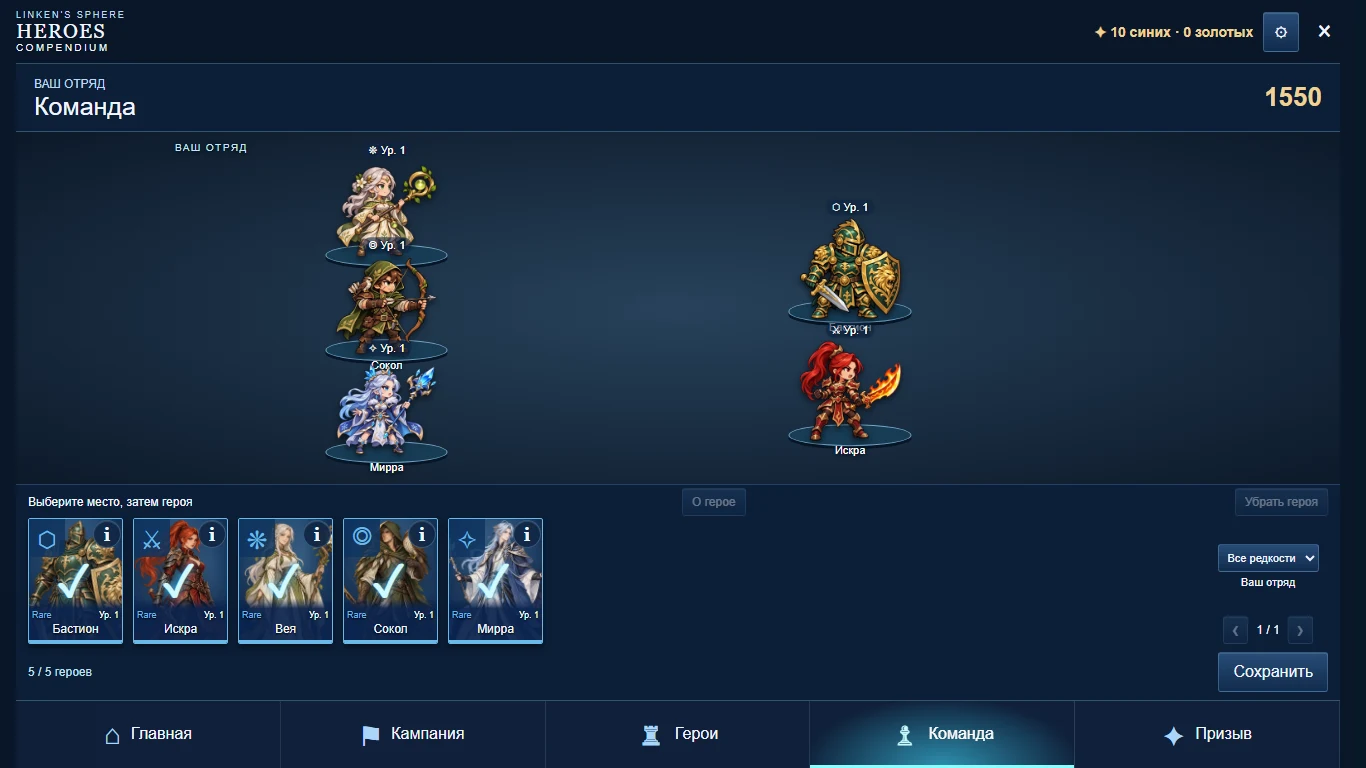
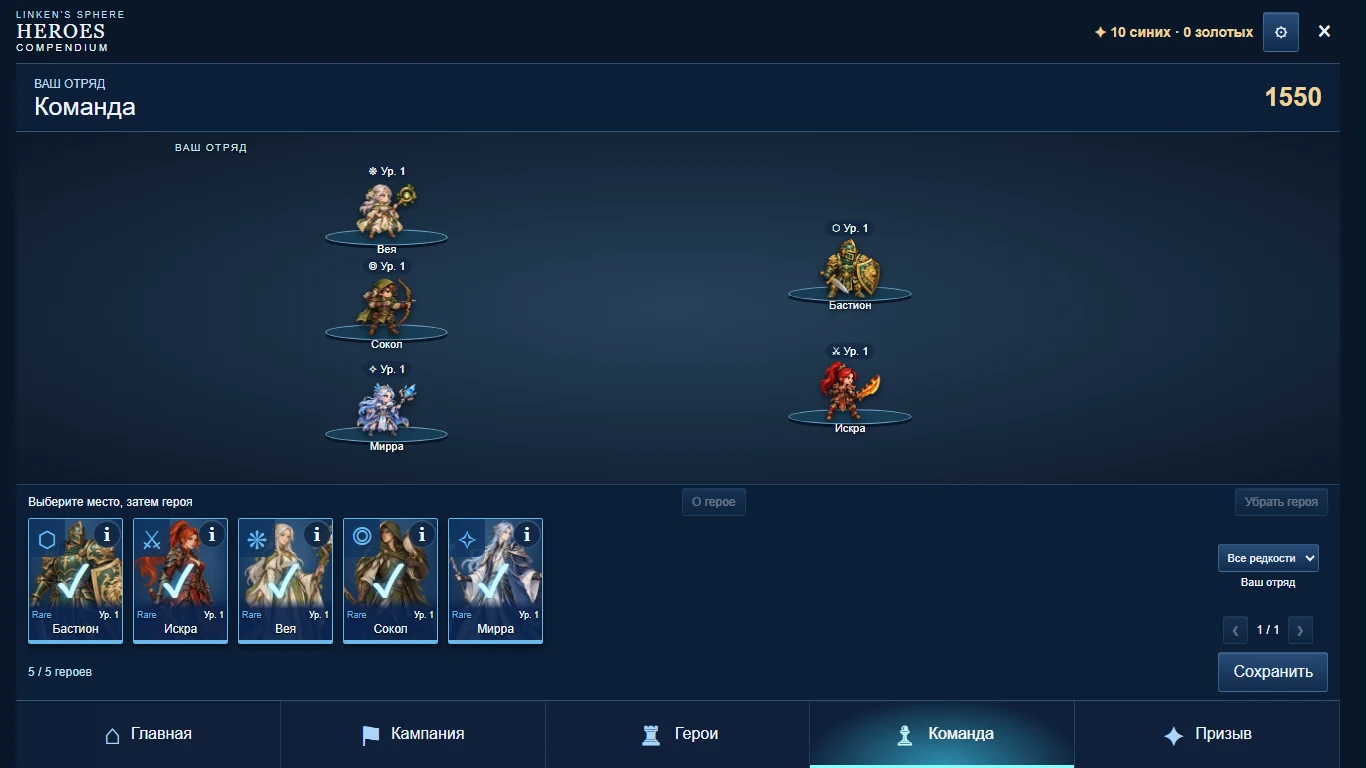
Разделить подписи героев между позициями отряда

Changed region(s): [[0.2152, 0.1875, 0.3382, 0.625], [0.5842, 0.25, 0.6764, 0.5938]]

diff --git a/site/app/styles/autobattler.css b/site/app/styles/autobattler.css
@@ -81,7 +81,7 @@ html:has(.ab-game),body:has(.ab-game){height:100dvh;overflow:clip}
 .ab-tactics-field:after{content:'';position:absolute;inset:42% 4% 5%;border:1px solid #86c0f122;transform:skewX(-17deg);background:repeating-linear-gradient(90deg,transparent 0 19%,#bedbff12 20%);z-index:-1}
 .ab-field-side{position:absolute;top:10px;font-size:10px;letter-spacing:.15em;color:#c0e8ff;text-shadow:0 1px 4px #000}
 .ab-side-player{left:12%}.ab-side-enemy{right:12%}
-.ab-game .ab-field-unit{position:absolute;left:var(--unit-x);top:var(--unit-y);transform:translate(-50%,-50%);display:flex;flex-direction:column;align-items:center;width:18%;max-width:175px;height:38%;max-height:160px;min-height:0;border:0;border-radius:0;background:none;box-shadow:none;padding:0;gap:0}
+.ab-game .ab-field-unit{position:absolute;left:var(--unit-x);top:var(--unit-y);transform:translate(-50%,-50%);display:flex;flex-direction:column;align-items:center;width:18%;max-width:175px;height:26%;max-height:120px;min-height:0;border:0;border-radius:0;background:none;box-shadow:none;padding:0;gap:0}
 .ab-field-unit:after{content:'';position:absolute;left:15%;right:15%;bottom:10px;height:15%;background:#183c55;border:1px solid #72a5c6;box-shadow:0 3px 0 #071627;border-radius:50%;z-index:-1}
 .ab-field-unit .ab-portrait{flex:1;min-height:0;width:100%;filter:drop-shadow(0 3px 3px #0009)}
 .ab-enemy-unit .ab-portrait{scale:-1 1}
@@ -259,7 +259,7 @@ html:has(.ab-game),body:has(.ab-game){height:100dvh;overflow:clip}
  .ab-grid{gap:6px}.ab-card-caption{padding:18px 3px 6px}.ab-card-caption strong{font-size:12px}.ab-card-caption>span{font-size:8px;flex-wrap:wrap;gap:2px}
  .ab-card .ab-card-role{width:28px;height:29px;font-size:21px}.ab-pager{padding:5px 0;gap:15px}.ab-pager button{min-height:28px}
  .ab-team-heading{min-height:54px;padding:5px 8px;gap:8px}.ab-team-heading h2{font-size:17px}.ab-team-heading small{font-size:9px}.ab-power{font-size:17px;gap:7px}.ab-power span{font-size:12px}
- .ab-tactics-field{min-height:175px}.ab-game .ab-field-unit{width:23%;height:35%;max-height:125px}
+ .ab-tactics-field{min-height:175px}.ab-game .ab-field-unit{width:23%;height:26%;max-height:100px}
  .ab-field-unit small{font-size:9px}.ab-unit-level{font-size:9px;padding:0 4px}.ab-field-side{font-size:8px;top:4px}
  .ab-team-tools{font-size:10px;padding:2px 6px;min-height:31px}.ab-team-tools button{font-size:10px;min-height:26px;padding:2px 5px}
  .ab-roster{height:126px}.ab-roster .ab-gallery-main{padding:0 6px;grid-template-columns:minmax(0,1fr) 100px;gap:4px;grid-template-rows:94px 28px}
